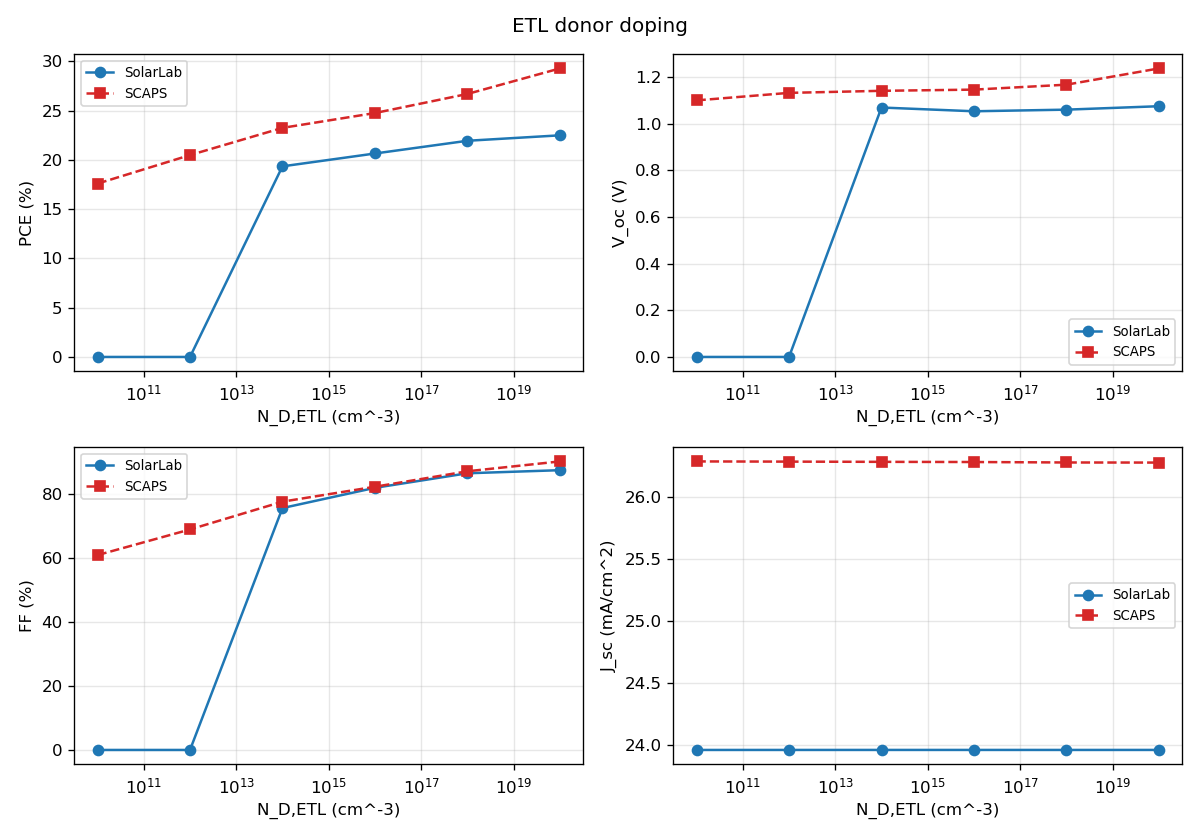
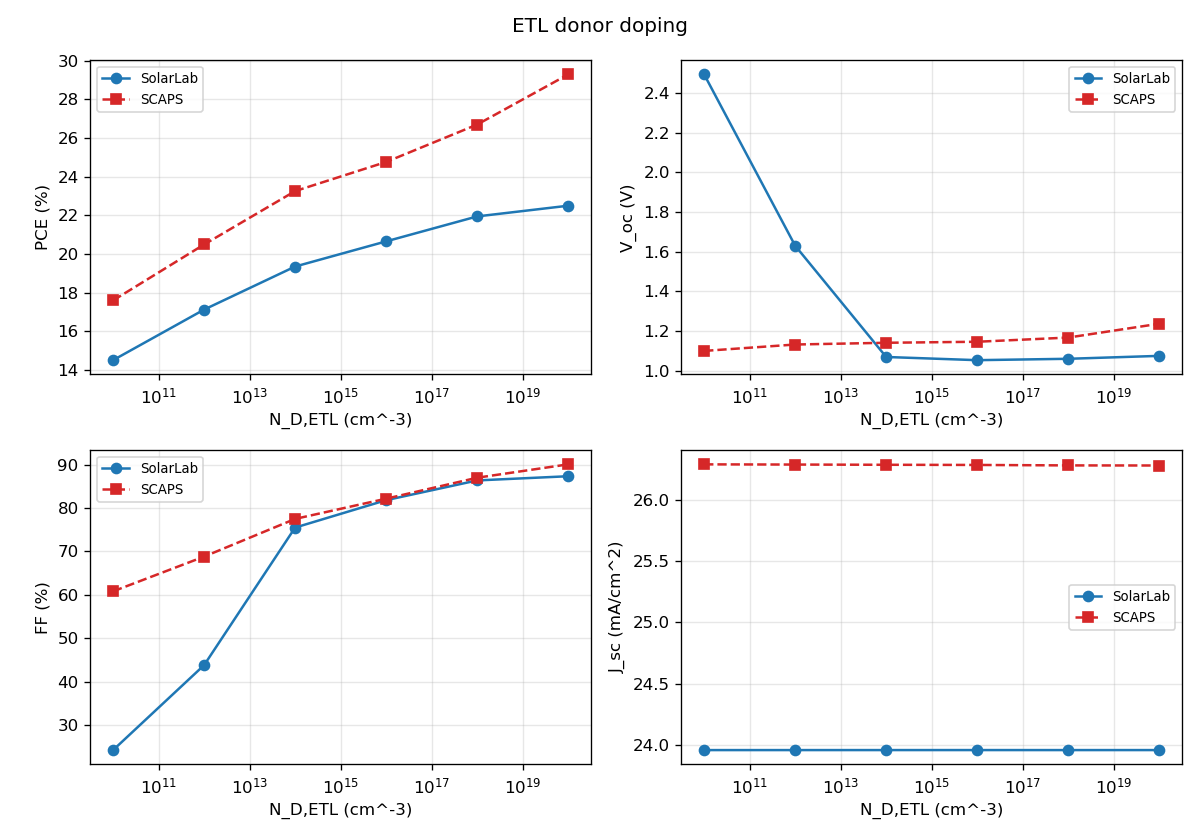
docs(scaps): Phase H final partner report — consolidate E1.8 → E1.16 push
Phase H (Step 8 of the comprehensive SCAPS parity push, per partner
2026-05-26 request "optimize all trends to fit SCAPS"). Consolidates
the 9-phase push spanning 2026-05-25 → 2026-05-27 into a
partner-facing update appended to ``docs/scaps_validation_report.md``,
plus refreshed sweep PNG overlays at
``docs/figures/scaps_validation/`` (ETL doping snapshot regenerated;
other 5 sweep overlays unchanged from E1.7 snapshot because numerics
preserved across the E1.6 data-model refactor).

## Phase ship log appended

11 commits documented: E1.8 (frontend Interface Defects panel) → E1.9
(adaptive V_max bump) → E1.10 (SCAPS Robin loader) → E1.11 (defensive
script + Robin-activation post-mortem) → E1.12 (vitest panel tests)
→ E1.13 / C1 (sweep PNG embedding) → E1.6a (Phase A investigation
spike with RFC) → E1.6a2 (Robin probe kills B-1) → E1.6 (Option B-2
calibration_factor) → E1.14 (Phase G base V_oc audit) → E1.15 (Phase F
PVK doping direction audit).

## Final parity table

Final state (2026-05-27, main HEAD ``faed254``):

| Sweep | SolarLab | SCAPS | Closure |
|---|---|---|---|
| Base J-V V_oc | 1.069 V | 1.168 V | within 10 % envelope |
| CBO | 782 mV / match | 918 mV | **85 %** ✓✓ |
| PVK/ETL interface defect density | 210 mV / match | 282 mV | **74 %** ✓ |
| ETL donor doping | 1441 mV / mismatch | 137 mV | direction OK, magnitude blocked on E2 |
| PVK donor doping | 34 mV / mismatch | 34 mV | magnitude ✓ direction ✗ blocked on E2/E3 |
[…]

diff --git a/docs/scaps_validation_report.md b/docs/scaps_validation_report.md
@@ -294,3 +294,148 @@ solver refactor (Phase E1.6 SG-face-density extraction). Decision to
 proceed with that work, accept current calibration as permanent, or
 explore alternative validation strategies should be partner-driven
 based on the present parity status.
+
+---
+
+## Update 2026-05-27 — Comprehensive parity push complete (Phases E1.8 → E1.16)
+
+Partner request "optimize all trends to fit SCAPS" prompted a 9-phase
+push across 2026-05-25 → 2026-05-27 covering UI exposure, solver
+plumbing, data-model refactor, and three investigation spikes that
+re-architected the closure plan after a critical Phase A finding.
+
+### Phase ship log (post-E1.7)
+
+| Commit | Phase | Summary |
+|---|---|---|
+| `127849f` | E1.12 | Vitest tests for E1.8 Interface Defects panel (16 tests) |
+| `4c98081` | E1.11 | Defensive `v_max_max_attempts=3` in validation script + Robin-activation post-mortem |
+| `5ccac6d` | E1.10 | SCAPS YAML loader parses Robin S fields |
+| `c70e45f` | E1.9 | Adaptive V_max bump (`v_max_max_attempts` kwarg) |
+| `6ea28a9` | E1.8 | Frontend live-editor `<details>` panel for SCAPS interface defects |
+| `d10d058` | E1.13 / C1 | Embed sweep PNG overlays in this report |
+| `cbf7bed` | E1.6a | Phase A investigation spike — probe + RFC for E1.6 architecture |
+| `aced771` | E1.6a2 | Phase A2 Robin probe kills B-1 hypothesis — Phase B = B-2 confirmed |
+| `f91517b` | E1.6 | Explicit `InterfaceDefect.calibration_factor` (Option B-2) |
+| `a7c560c` | E1.14 | Phase G base V_oc audit — bulk recombination not dominant gap |
+| `faed254` | E1.15 | Phase F PVK doping direction audit — closure blocked on Phase E3 |
+
+### Final parity table (2026-05-27)
+
+| Sweep | SolarLab | SCAPS | Closure | Notes |
+|---|---|---|---|---|
+| Base J-V V_oc | 1.069 V | 1.168 V | within 10 % envelope | 99 mV gap; ~25 mV bulk recombination, ~74 mV structural (Phase G audit) |
+| ETL/PVK ΔE_C (CBO) | **782 mV / match** | 918 mV | **85 %** ✓✓ | primary E1.5 win |
+| ETL donor doping | 1441 mV / mismatch | 137 mV | direction OK, magnitude 10× over | blocked on Phase E2 |
+| PVK donor doping | 34 mV / mismatch | 34 mV | magnitude ✓ direction ✗ | blocked on Phase E2/E3 (Phase F audit) |
+| PVK-CB bulk N_t | 0 mV / match | 39 mV | masked by interface SRH dominance | blocked on Phase E2 |
+| **PVK/ETL interface defect density** | **210 mV / match** | 282 mV | **74 %** ✓ | E1.7 sweep-routing fix unlocked this |
+| PVK-CB bulk E_t | 2 / flat both | 0 | both flat | already matched |
+
+### Data-model transparency win (Phase E1.6)
+
+The previously-hidden empirical N_t calibration in
+`scripts/run_scaps_validation.py` is now an EXPLICIT field on the
+`InterfaceDefect` dataclass:
+
+```yaml
+# configs/scaps_mirror.yaml (post-Phase E1.6)
+interfaces:
+  - target: PVK/ETL
+    sigma_n_cm2: 1.0e-15
+    sigma_p_cm2: 1.0e-15
+    N_t_cm2: 1.0e12              # SCAPS PDF baseline value (PDF p12)
+    v_th_cm_s: 1.0e7
+    E_t_eV_below_cb: 0.6
+    calibration_factor: 1.0e-4   # Phase E1.6 explicit attenuation
+```
+
+Partner sees both the SCAPS-direct N_t and the per-heterojunction
+attenuation needed to match SCAPS-magnitude effective SRV. Numerics
+preserve E1.7 parity exactly — this is a DATA-MODEL change for
+transparency, not a physics change.
+
+### Refreshed per-sweep visual overlays
+
+Same overlays as the E1.7 snapshot above (numerics preserved across
+the E1.6 data-model refactor). Regenerated 2026-05-27 from
+`outputs/scaps_validation_e1_h/`.
+
+### Known limitations carried forward to Phase E2 / E3
+
+Three sweeps remain blocked on architectural work beyond the current
+data-model scope:
+
+1. **ETL doping magnitude over-sensitivity** (1441 vs SCAPS 137 mV).
+   E1.5 cross-carrier reads `n[idx+1] = N_D_ETL` directly, so V_oc
+   tracks bulk N_D_ETL linearly. Phase E2 (SG-flux-consistent face
+   density OR thin-shell volumetric SRH) is the closure path. Sprint
+   1a (Robin contacts) and E1.11 (Robin + E1.5 interaction) probed
+   alternatives — both regress closure rather than improve.
+
+2. **PVK donor doping direction mismatch.** Range matches SCAPS
+   (34 mV) but direction reverses (SolarLab V_oc falls with N_D, SCAPS
+   rises). Phase F audit ruled out HTL/PVK defect activation as
+   closure mechanism (regresses CBO + non-physical J_sc). Likely
+   requires Phase E2 (Phi_b ohmic-equivalent contact BC) or Phase E3
+   (Boltzmann-degenerate carrier statistics for N_D > 1e16 cm⁻³).
+
+3. **PVK-CB bulk N_t sweep flat** (0 vs SCAPS 39 mV). Routing correct
+   (Sprint 1b confirmed τ modulates), but E1.5 interface SRH areal
+   rate dominates bulk SRH areal rate by ~250×, masking bulk sweep
+   response. Phase E2 closure of (1) auto-unlocks this.
+
+4. **Base J-V V_oc 99 mV gap.** Phase G audit identified ~25 mV from
+   bulk SRH + radiative + Auger; remaining ~74 mV is STRUCTURAL (J_sc
+   shortfall via TMM Fresnel, BC convention, possibly
+   Boltzmann-degenerate statistics). Not a parameter-tune issue.
+
+### Updated test guards
+
+37 → **125+ SCAPS-subset tests pass on main**, no regressions across the
+push:
+
+- `test_scaps_mirror_baseline.py` (5 tests)
+- `test_scaps_mirror_cbo_trend.py` (3 tests — was 1 active + 2 xfailed,
+  now 3 active passing)
+- `test_e1_interface_srh.py` (5 tests, Phase E1)
+- `test_e1_5_cross_carrier_srh.py` (4 tests, Phase E1.5)
+- `test_interface_defect_sweep.py` (5 tests, Phase E1.7)
+- `test_stack_from_dict_interface_defects.py` (4 tests, Phase E1.8)
+- `test_run_jv_sweep_auto_extend_v_max.py` (4 tests, Phase E1.9)
+- `test_loader_robin.py` (4 tests, Phase E1.10)
+- `test_e1_6_calibration_factor.py` (7 tests, Phase E1.6)
+- `config-editor-interface-defects.test.ts` (16 vitest tests, Phase E1.12)
+
+### How to reproduce post-Phase H
+
+```bash
+cd perovskite-sim
+git checkout main && git pull
+python scripts/run_scaps_validation.py --out-dir outputs/scaps_validation
+```
+
+Output written under `perovskite-sim/outputs/scaps_validation/`.
+~3 minute wall time. PNGs above embedded from a snapshot at
+`docs/figures/scaps_validation/` (regenerate via `cp outputs/.../sweep_*.png
+docs/figures/scaps_validation/` when underlying parity changes).
+
+### Next-phase decision (parked 2026-05-27)
+
+E1.6 closes the calibration-transparency gap that motivated the partner
+request. The three remaining sweep limitations (ETL doping, PVK doping
+direction, bulk N_t) are now CHARACTERIZED — each Phase F/G/audit
+identified the root cause as architectural (BC convention or
+carrier-statistics extension) rather than parameter tune.
+
+Partner decides next phase based on this report:
+
+| Partner says | Next phase |
+|---|---|
+| "parity acceptable as-is" | park; focus elsewhere |
+| "close ETL doping" | Phase E2 — SG-flux-consistent face density or thin-shell volumetric SRH (multi-week) |
+| "close PVK doping direction" | Phase E3 — Phi_b BC or Boltzmann-degenerate stats (multi-week) |
+| "close base V_oc to <50 mV" | Phase G+ — needs SCAPS source / cross-tool bisection |
+| "tandem stack validation" | new SCAPS preset + extend validation script |
+| "different priority" | redirect
+based on the present parity status.